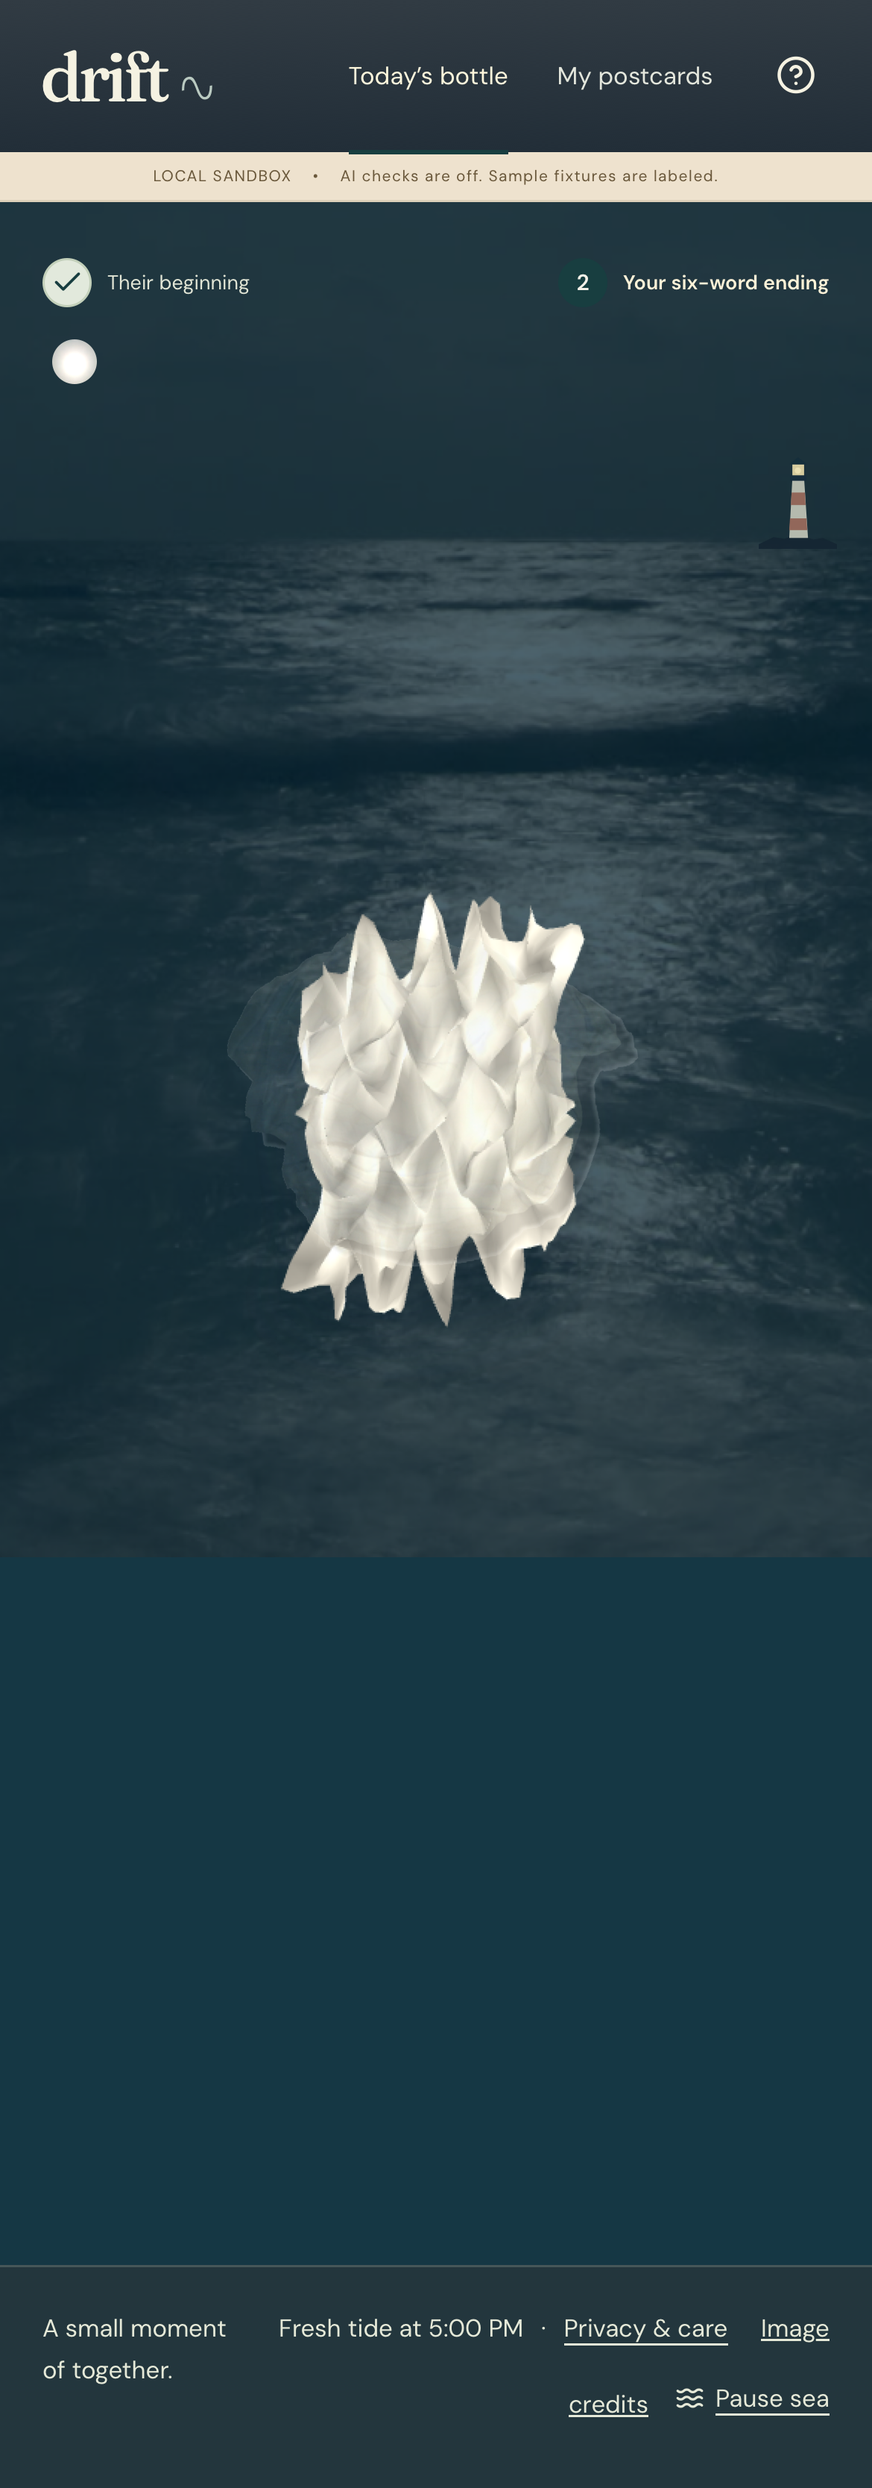
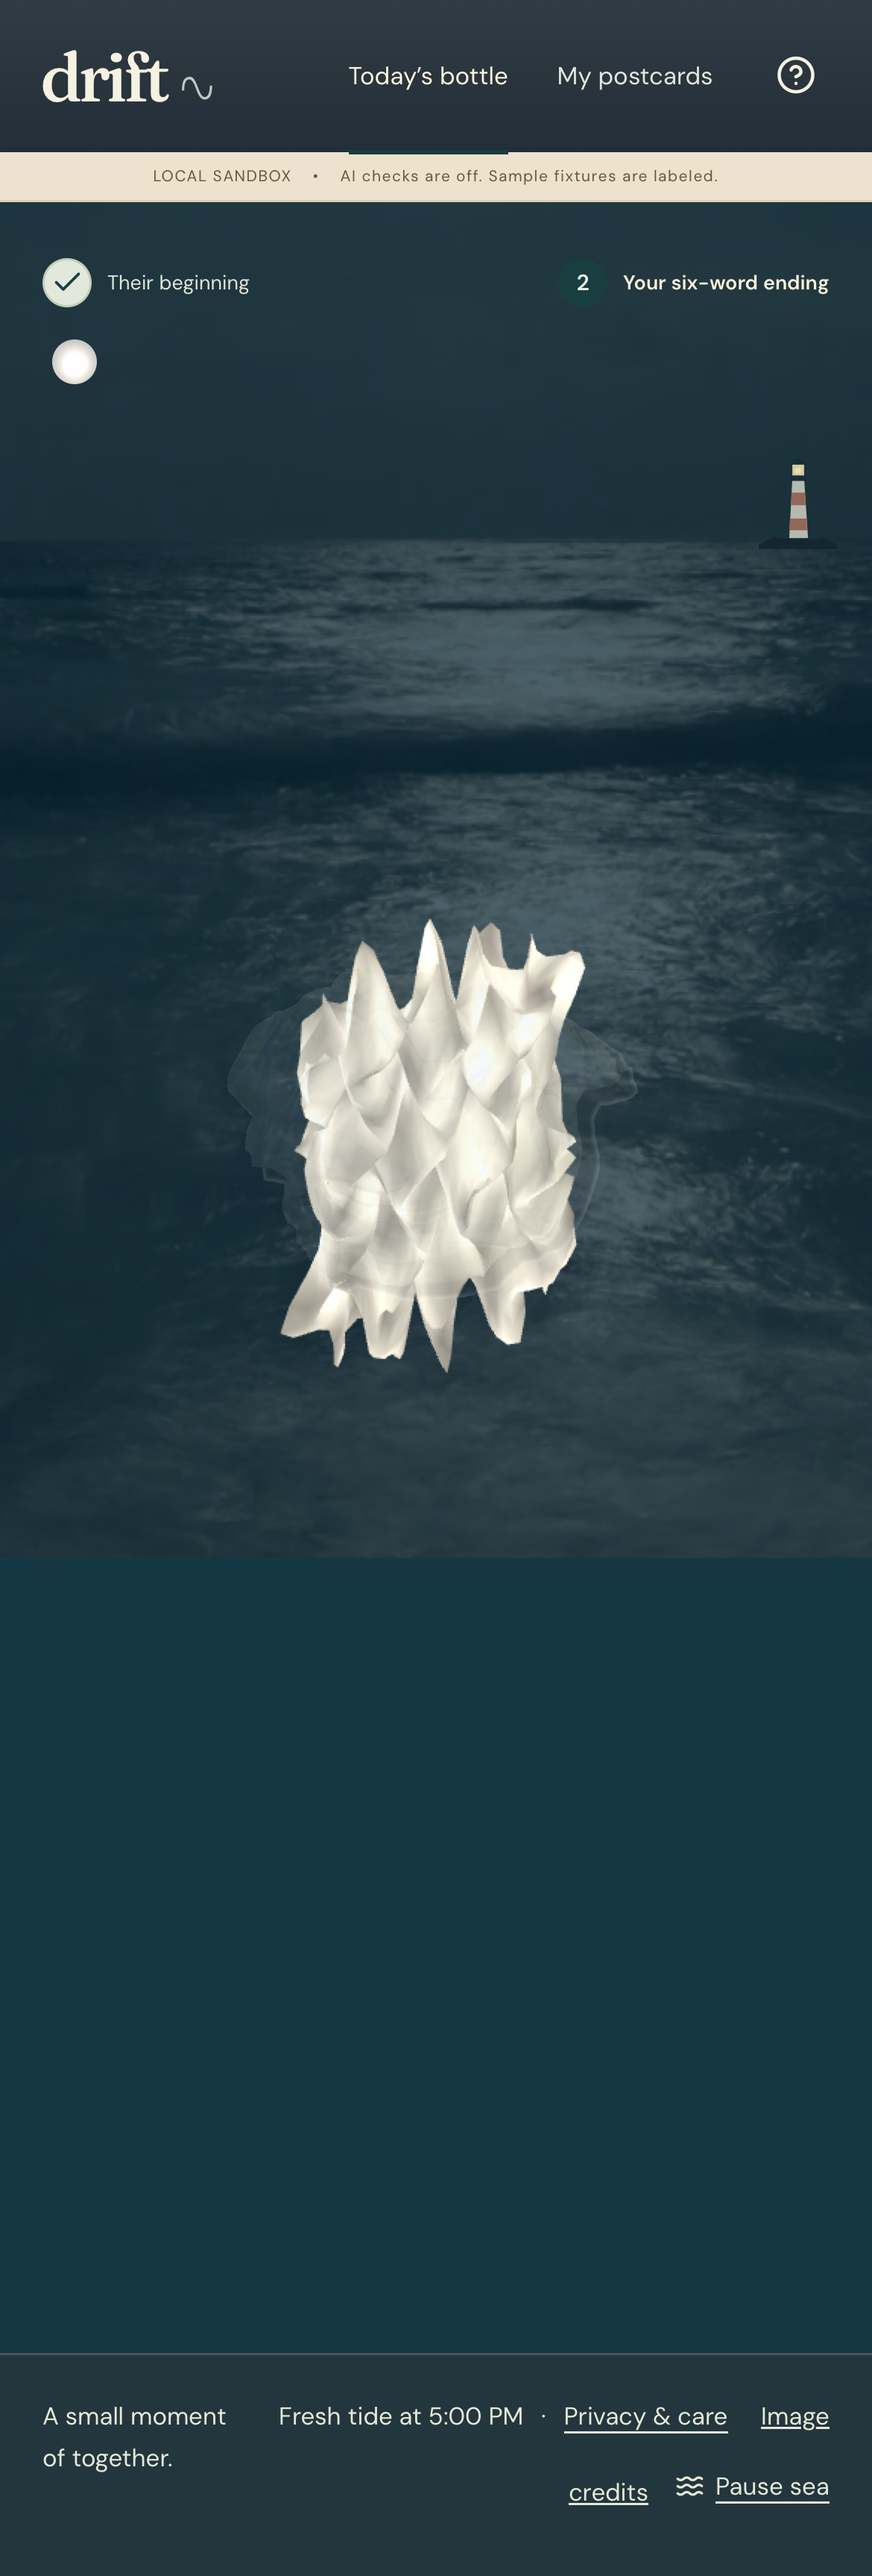
Polish daily bottle identity and six-word writing feedback

diff --git a/apps/web/src/Shore.tsx b/apps/web/src/Shore.tsx
@@ -1,7 +1,7 @@
 import { useEffect, useRef, useState, type PointerEvent, type RefObject } from 'react';
 import { Hand, LoaderCircle, Smartphone } from 'lucide-react';
 import { ShakeMeter } from './shake';
-import type { Prompt } from '../../../packages/game-rules/index';
+import { FIRST_TIDE_DAY, type Prompt } from '../../../packages/game-rules/index';
 import './shore.css';
 
 type MotionConstructor = typeof DeviceMotionEvent & { requestPermission?: () => Promise<string> };
@@ -95,6 +95,8 @@ export function Shore({
   empty = false,
   hasOutgoing = true,
   headingRef,
+  day,
+  stamped = false,
 }: {
   mode: 'home' | 'catch';
   prompt?: Prompt;
@@ -109,6 +111,8 @@ export function Shore({
   empty?: boolean;
   hasOutgoing?: boolean;
   headingRef: RefObject<HTMLHeadingElement | null>;
+  day?: number;
+  stamped?: boolean;
 }) {
   const grip = useRef<HTMLButtonElement>(null);
   const emptyHeading = useRef<HTMLHeadingElement>(null);
@@ -242,6 +246,21 @@ export function Shore({
       aria-label={mode === 'catch' ? 'Catch a bottle on the moonlit shore' : 'Drift bottle shore'}
     >
       <div className="shore-heading">
+        {day !== undefined && (
+          <div className="tide-edition">
+            <span>
+              DAILY BOTTLE <b>№ {String(Math.max(1, day - FIRST_TIDE_DAY + 1)).padStart(3, '0')}</b>
+            </span>
+            <time dateTime={new Date(day * 86400000).toISOString().slice(0, 10)}>
+              {new Date(day * 86400000).toLocaleDateString('en-US', {
+                weekday: 'short',
+                month: 'short',
+                day: 'numeric',
+                timeZone: 'UTC',
+              })}
+            </time>
+          </div>
+        )}
         <h1 ref={headingRef} tabIndex={-1} className="sr-only">
           {mode === 'catch' ? 'Something’s washing ashore.' : 'There’s a story out there.'}
         </h1>
@@ -252,6 +271,11 @@ export function Shore({
               : 'A different little beginning is out there.'
             : 'A little daily nonsense from someone else.'}
         </p>
+        {mode === 'home' && stamped && (
+          <span className="shore-stamp">
+            <span aria-hidden="true">✓</span> Today’s stamp, collected
+          </span>
+        )}
       </div>
       {empty && (
         <div className="quiet-tide-note">
@@ -345,7 +369,7 @@ export function Shore({
       )}
       <div className="shore-dock">
         <button
-          className={`dock-action ${mode === 'home' ? 'dock-primary' : ''}`}
+          className="dock-action"
           onClick={() => void onWrite()}
           disabled={disabled || (mode === 'catch' && hasOutgoing)}
         >
@@ -361,7 +385,7 @@ export function Shore({
           </span>
         </button>
         <button
-          className={`dock-action ${mode === 'catch' ? 'dock-primary' : ''}`}
+          className="dock-action dock-primary"
           onClick={() => void activate()}
           disabled={disabled}
         >

diff --git a/apps/web/src/shore.css b/apps/web/src/shore.css
@@ -1116,3 +1116,82 @@
     transition: none;
   }
 }
+
+/* Numbered daily identity and one clear catch action; the reward stays a shared note. */
+.tide-edition {
+  display: flex;
+  justify-content: center;
+  align-items: center;
+  gap: 14px;
+  margin-bottom: 9px;
+  color: #ece7ce;
+  font:
+    500 10px/1.4 'DM Sans',
+    sans-serif;
+  letter-spacing: 0.13em;
+  font-variant-numeric: tabular-nums;
+}
+.tide-edition b {
+  font-weight: 600;
+  margin-left: 5px;
+}
+.tide-edition time {
+  color: #c6d5d0;
+  letter-spacing: 0.04em;
+}
+.sea-world .shore-prompt {
+  top: 112px;
+}
+.shore-stamp {
+  display: inline-flex;
+  align-items: center;
+  gap: 7px;
+  margin-top: 8px;
+  color: #e9d5a8;
+  font-size: 11px;
+}
+.shore-stamp > span {
+  font-size: 15px;
+}
+.shore-dock .dock-primary > span:last-child {
+  padding: 7px 10px;
+  border-radius: 4px;
+  border: 1px solid #f0e6bf;
+  background: #eee6cd;
+  color: #1c4145;
+  text-shadow: none;
+  box-shadow: 0 3px 0 #1c3546;
+  font-weight: 600;
+  transition:
+    background-color 150ms ease-out,
+    transform 150ms ease-out,
+    box-shadow 150ms ease-out;
+}
+.shore-dock .dock-primary:hover > span:last-child {
+  background: #fff5d8;
+}
+.shore-dock .dock-primary:active > span:last-child {
+  transform: translateY(2px);
+  box-shadow: 0 1px 0 #1c3546;
+}
+@media (max-width: 700px) {
+  .tide-edition {
+    gap: 9px;
+    font-size: 9px;
+    margin-bottom: 8px;
+  }
+  .sea-world .shore-prompt {
+    top: 99px;
+  }
+  .shore-dock .dock-primary > span:last-child {
+    padding: 7px 6px;
+  }
+}
+@media (prefers-reduced-motion: reduce) {
+  .shore-dock .dock-primary > span:last-child {
+    transition: none;
+  }
+  .shore-dock .dock-primary:active > span:last-child {
+    transform: none;
+  }
+}

diff --git a/apps/web/src/main.tsx b/apps/web/src/main.tsx
@@ -454,6 +454,8 @@ function App() {
           {view === 'today' && (
             <Shore
               mode="home"
+              day={s.today?.day}
+              stamped={stampedToday}
               prompt={prompt}
               disabled={
                 controlsDisabled || !prompt || (!active && dailyRounds >= 3) || !!s.service?.paused
@@ -544,6 +546,7 @@ function App() {
                 ) : active.stage === 'catch' ? (
                   <Shore
                     mode="catch"
+                    day={active.day}
                     hasOutgoing={!!active.setupId}
                     prompt={prompt}
                     disabled={controlsDisabled}
@@ -613,7 +616,9 @@ function App() {
                     <div className="word-feedback" id="word-help">
                       <div className={`word-dots ${count > 6 ? 'over' : ''}`} aria-hidden="true">
                         {Array.from({ length: 6 }, (_, i) => (
-                          <span key={i} className={i < count ? 'filled' : ''} />
+                          <span key={i} className={i < count ? 'filled' : ''}>
+                            {i < count ? '✓' : String(i + 1).padStart(2, '0')}
+                          </span>
                         ))}
                       </div>
                       <span className={count === 6 ? 'count-done' : count > 6 ? 'count-over' : ''}>

diff --git a/apps/web/src/style.css b/apps/web/src/style.css
@@ -2024,3 +2024,52 @@ a {
     align-items: center;
   }
 }
+
+/* Six word-sized marks, rather than letter guesses: one small daily ritual. */
+.word-feedback {
+  display: grid;
+  grid-template-columns: 1fr auto;
+  gap: 11px 12px;
+  font-variant-numeric: tabular-nums;
+}
+.word-feedback .word-dots {
+  display: grid;
+  grid-template-columns: repeat(6, minmax(0, 1fr));
+  grid-column: 1 / -1;
+  gap: 7px;
+  width: 100%;
+  margin: 0;
+}
+.word-feedback .word-dots > span {
+  width: auto;
+  height: 34px;
+  display: grid;
+  place-items: center;
+  border: 1px solid #8a9a8b;
+  border-radius: 3px;
+  background: #fffdf633;
+  color: #586951;
+  font:
+    500 12px 'DM Sans',
+    sans-serif;
+  transition-property: background-color, border-color, color, box-shadow;
+  transition-duration: 180ms;
+  transition-timing-function: ease-out;
+}
+.word-feedback .word-dots > span.filled {
+  background: #dce6d7;
+  border-color: #607e60;
+  color: #244a3e;
+  box-shadow: inset 0 -2px 0 #48674918;
+  font-size: 17px;
+}
+.word-feedback .word-dots.over > span.filled {
+  background: #eeded1;
+  border-color: #ac7150;
+  color: #7c3c25;
+}
+@media (prefers-reduced-motion: reduce) {
+  .word-feedback .word-dots > span {
+    transition: none;
+  }
+}

diff --git a/packages/game-rules/index.ts b/packages/game-rules/index.ts
@@ -17,6 +17,7 @@ export function validateLine(text: string): string | null {
 }
 export const normalize = (s: string) => s.trim().replace(/\s+/gu, ' ');
 export const dayOf = (timeMs: number) => Math.floor(timeMs / 86400000);
+export const FIRST_TIDE_DAY = dayOf(Date.parse('2026-10-24T00:00:00Z'));
 export const PROMPTS = [
   {
     id: 'aquarium',
@@ -120,7 +121,7 @@ export const PROMPTS = [
   },
 ] as const;
 export function promptForDay(day: number) {
-  const anchor = dayOf(Date.parse('2026-10-24T00:00:00Z'));
+  const anchor = FIRST_TIDE_DAY;
   const index = (((day - anchor) % PROMPTS.length) + PROMPTS.length) % PROMPTS.length;
   return PROMPTS[index];
 }

diff --git a/docs/workflow-notes-evening.md b/docs/workflow-notes-evening.md
@@ -1,0 +1,25 @@
+# Daily-game UI iteration — live working notes
+
+Recorded October 24, 2026, starting at 23:17 UTC. This is a new iteration on the working game, not a reconstruction of initial ideation. The team is handling its submission writeup; this file captures technical workflow evidence as work happens.
+
+## References and scope
+
+The owner requested inspiration from Wordle and Krillion, a stronger UI and continued sponsor alignment. We inspected the actual `krillion.io` entry screen: a numbered daily identity, brief rules and a visually dominant start action. The NYT browser page was blocked by the browser's site-safety policy; no workaround was attempted. Wordle's familiar daily-game patterns inform the brief, but no current Wordle screenshot was inspected or copied. Drift keeps its bottle, real photographs, six-word collaboration and shared postcard reward.
+
+## Prototype request
+
+Figma Make received a new prompt in the existing shared prototype file: compact dated daily identity; catching primary, writing secondary; six word-slot marks; postcard before the optional next contribution. Existing prototype/sample labeling, licensed photos, keyboard/reduced-motion alternatives and honest empty states must remain. A fifth inspectable writing state was requested. No new backend, generated images, invented users or scores were requested.
+
+The first long typing operation timed out with a partial unsent draft. We inspected the draft, replaced it using paste, then submitted once. The actual Make UI showed the submitted prompt and a running Thinking/Stop state. This browser friction is part of the workflow; it is not a failed game build.
+
+## Implementation checkpoint
+
+The React implementation now derives the edition and date from the authoritative server day, highlights catching as the primary dock action, and replaces tiny count dots with six numbered paper marks that fill as words are typed. The existing completed-round marker supplies the collected-stamp label. Production still allows over-six-word drafts with corrective feedback; it never truncates a writer's pasted text. Existing Spacetime transitions, Claude guidance, real photographs and paper opening remain in use.
+
+Figma Make v3, “Refine Daily Bottle States”, reported 51 seconds of tool work. We actually entered five sample words (completion disabled), added a sixth (enabled), and completed the sample postcard. The postcard appeared before the optional next-beginning action. The handoff notes recommend daily identity, primary catching and 24–32px spacing. We adopted the identity/action hierarchy and word-count affordance; we did not copy synthetic autofill or the prototype's hard six-word input cap. The production paper animation stays at its existing duration.
+
+Review found the sample Writing path incorrectly credited the viewer as the beginning's author. A focused follow-up requested path-aware attribution and corrected the production handoff recommendation about over-count drafts. That follow-up was submitted after inspecting the actual result; its outcome is recorded below when verified.
+
+At 23:25 UTC the production build, eight WebKit checks, two empty-tide viewport flows and ten shore-interaction checks passed. Selected accessibility scans reported no violations. Screenshots at 390px and 1440px were inspected, including the six-mark writer. The first concurrent shore test could not create its disposable database (`File exists`); a sequential rerun created a fresh room and passed. No physical-phone, attendee or paid-model test is implied.
+
+Approximate active-time estimates for this additional iteration at the checkpoint: ideation 1 minute (4/5), prototyping/review 3 minutes (3/5), handoff 1 minute (4/5), implementation/verification 4 minutes (4/5). These are Codex estimates and assessments; concurrent tool waits overlap and are not measured time savings.
